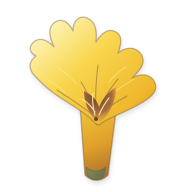
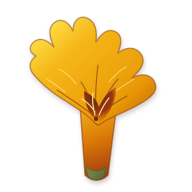
style(chips): unificar verde folhagem vivo nos chips e filtros selecionados

Changed region(s): [[0.1562, 0.0625, 0.8125, 0.9688]]

diff --git a/src/view/favorites/favorites.tsx b/src/view/favorites/favorites.tsx
@@ -89,8 +89,8 @@ export default function Favorites({
                 onPress={() => setStatusFilter(value)}
                 style={withPress([styles.mobileChip, selected && styles.mobileChipSelected])}
               >
-                {selected ? <AppIcon name="check" size={14} color={colors.m3.onSecondaryContainer} /> : null}
-                <Text style={[styles.mobileChipText, selected && { color: colors.m3.onSecondaryContainer }]}>{label}</Text>
+                {selected ? <AppIcon name="check" size={14} color={colors.nature.onFoliage} /> : null}
+                <Text style={[styles.mobileChipText, selected && { color: colors.nature.onFoliage, fontWeight: tokens.fontWeight.semiBold }]}>{label}</Text>
               </Pressable>
             );
           })}
@@ -115,8 +115,8 @@ export default function Favorites({
                   onPress={() => setStatusFilter(value)}
                   style={withPress([styles.wideChip, selected && styles.wideChipSelected])}
                 >
-                  {selected ? <AppIcon name="check" size={16} color={colors.m3.onSecondaryContainer} /> : null}
-                  <Text style={[styles.wideChipText, selected && { color: colors.m3.onSecondaryContainer }]}>{label}</Text>
+                  {selected ? <AppIcon name="check" size={16} color={colors.nature.onFoliage} /> : null}
+                  <Text style={[styles.wideChipText, selected && { color: colors.nature.onFoliage, fontWeight: tokens.fontWeight.semiBold }]}>{label}</Text>
                 </Pressable>
               );
             })}
@@ -275,8 +275,8 @@ function createStyles(colors: ColorPalette) {
       backgroundColor: colors.m3.surfaceContainerLowest,
     },
     wideChipSelected: {
-      backgroundColor: colors.m3.secondaryContainer,
-      borderColor: colors.m3.secondaryContainer,
+      backgroundColor: colors.nature.foliage,
+      borderColor: colors.nature.foliage,
       borderRadius: tokens.shapeMorph.chipSelected,
       borderWidth: 0,
       paddingLeft: tokens.spacing[8],
@@ -300,7 +300,7 @@ function createStyles(colors: ColorPalette) {
       borderColor: colors.m3.outlineVariant,
     },
     mobileChipSelected: {
-      backgroundColor: colors.m3.secondaryContainer,
+      backgroundColor: colors.nature.foliage,
       borderColor: "transparent",
     },
     mobileChipText: {

diff --git a/src/view/home.tsx b/src/view/home.tsx
@@ -62,6 +62,19 @@ export type HomeProps = {
 
 export { resetAppLaunchCelebrationForTesting };
 
+function getBookRecency(book: Book): number {
+  if (book.createdAt) {
+    const time = new Date(book.createdAt).getTime();
+    if (!Number.isNaN(time)) return time;
+  }
+  const match = book.id.match(/^book-(\d+)/);
+  if (match) {
+    const time = Number(match[1]);
+    if (!Number.isNaN(time)) return time;
+  }
+  return 0;
+}
+
 export default function Home({
   currentNeighborhood,
   onSelectNeighborhood,
@@ -181,8 +194,17 @@ export default function Home({
     return filteredBooks.filter((b) => b.neighborhood === effectiveNeighborhood);
   }, [filteredBooks, isSpecificNeighborhood, effectiveNeighborhood]);
 
-  const maxRecent = wideWeb ? 12 : CAROUSEL_MAX_ITEMS;
-  const recentBooks = neighborhoodBooks.slice(0, maxRecent);
+  const sortedNeighborhoodBooks = useMemo(() => {
+    return [...neighborhoodBooks].sort((a, b) => {
+      const recencyA = getBookRecency(a);
+      const recencyB = getBookRecency(b);
+      if (recencyA !== recencyB) return recencyB - recencyA;
+      return 0;
+    });
+  }, [neighborhoodBooks]);
+
+  const maxRecent = CAROUSEL_MAX_ITEMS;
+  const recentBooks = sortedNeighborhoodBooks.slice(0, maxRecent);
   const donationCount = state.books.filter(
     (book) => book.modality === "donation" && book.status === "available",
   ).length;
@@ -506,7 +528,7 @@ export default function Home({
             }
           }}
           viewMoreLabel="Ver mais livros recém-adicionados"
-          viewMoreButtonText="Ver todos"
+          viewMoreButtonText="Ver mais"
         />
       ) : (
         <HomeEmptyCatalogSection

diff --git a/src/view/components/Chip.tsx b/src/view/components/Chip.tsx
@@ -44,7 +44,7 @@ export function Chip({ label, selected, onPress, disabled = false, accessibility
           disabled && styles.disabled,
         ]}
       >
-        {selected ? <AppIcon name="check" size={18} color={tone?.text ?? colors.m3.onSecondaryContainer} /> : null}
+        {selected ? <AppIcon name="check" size={18} color={tone?.text ?? colors.nature.onFoliage} /> : null}
         {tone && !selected ? <View style={[styles.dot, { backgroundColor: tone.background, borderColor: tone.background }]} /> : null}
         <Text
           style={[
@@ -76,7 +76,7 @@ function createStyles(colors: ColorPalette) {
     chipCompact: { height: tokens.spacing[32], paddingHorizontal: tokens.spacing[16] },
     chipRegular: { height: tokens.spacing[40], paddingHorizontal: tokens.spacing[20] },
     selected: {
-      backgroundColor: colors.m3.secondaryContainer,
+      backgroundColor: colors.nature.foliage,
       borderWidth: 0,
       borderRadius: tokens.shapeMorph.chipSelected,
     },
@@ -91,7 +91,7 @@ function createStyles(colors: ColorPalette) {
       ...(Platform.OS === "web" ? ({ cursor: "not-allowed" } as never) : {}),
     },
     label: { color: colors.m3.onSurfaceVariant, ...tokens.typography.labelLarge },
-    labelSelected: { color: colors.m3.onSecondaryContainer },
+    labelSelected: { color: colors.nature.onFoliage, fontWeight: tokens.fontWeight.medium },
     labelDisabled: { color: colors.disabledText },
   });
 }

diff --git a/src/view/search/WebFilterSidebar.tsx b/src/view/search/WebFilterSidebar.tsx
@@ -127,7 +127,7 @@ export function WebFilterSidebar({
                   onPress={() => onSortChange(opt)}
                   style={withPress([styles.chip, selected && styles.chipSelected])}
                 >
-                  {selected ? <AppIcon name="check" size={16} color={colors.m3.onSecondaryContainer} /> : null}
+                  {selected ? <AppIcon name="check" size={16} color={colors.nature.onFoliage} /> : null}
                   <Text style={[styles.chipText, selected && styles.chipTextSelected]}>{SORT_LABELS[opt]}</Text>
                 </Pressable>
               );
@@ -192,14 +192,14 @@ function createStyles(colors: ColorPalette) {
       backgroundColor: colors.m3.surfaceContainerLowest,
     },
     chipSelected: {
-      backgroundColor: colors.m3.secondaryContainer,
-      borderColor: colors.m3.secondaryContainer,
+      backgroundColor: colors.nature.foliage,
+      borderColor: colors.nature.foliage,
       borderRadius: tokens.shapeMorph.chipSelected,
       borderWidth: 0,
       paddingLeft: tokens.spacing[8],
     },
     chipText: { ...tokens.typography.labelLarge, color: colors.m3.onSurfaceVariant },
-    chipTextSelected: { color: colors.m3.onSecondaryContainer },
+    chipTextSelected: { color: colors.nature.onFoliage, fontWeight: tokens.fontWeight.semiBold },
     checkRow: { flexDirection: "row", alignItems: "center", gap: tokens.spacing[12], minHeight: 40 },
     box: {
       width: 18,

diff --git a/src/view/requests/requestListLayout.tsx b/src/view/requests/requestListLayout.tsx
@@ -170,7 +170,7 @@ export function RequestListLayout({
                       selected && styles.filterChipSelected,
                     ])}
                   >
-                    {selected ? <AppIcon name="check" size={16} color={colors.m3.onSecondaryContainer} /> : null}
+                    {selected ? <AppIcon name="check" size={16} color={colors.nature.onFoliage} /> : null}
                     <Text style={[styles.filterChipText, selected && styles.filterChipTextSelected]}>
                       {chip.label}
                     </Text>
@@ -504,8 +504,8 @@ function createStyles(colors: ColorPalette) {
     borderColor: colors.m3.outlineVariant,
   },
   filterChipSelected: {
-    backgroundColor: colors.m3.secondaryContainer,
-    borderColor: colors.m3.secondaryContainer,
+    backgroundColor: colors.nature.foliage,
+    borderColor: colors.nature.foliage,
     borderRadius: tokens.shapeMorph.chipSelected,
     borderWidth: 0,
     paddingLeft: tokens.spacing[10],
@@ -520,7 +520,8 @@ function createStyles(colors: ColorPalette) {
     fontWeight: tokens.fontWeight.medium,
   },
   filterChipTextSelected: {
-    color: colors.m3.onSecondaryContainer,
+    color: colors.nature.onFoliage,
+    fontWeight: tokens.fontWeight.semiBold,
   },
   heroTitle: {
     ...tokens.typography.titleMedium,

diff --git a/src/infra/datasources/supabaseBookDataSource.ts b/src/infra/datasources/supabaseBookDataSource.ts
@@ -27,10 +27,11 @@ type BookRow = {
   draft_step?: number | null;
   is_box?: boolean | null;
   box_volumes_count?: number | null;
+  created_at?: string | null;
 };
 
 export const BOOK_COLUMNS =
-  "id,title,author,category,owner_id,modality,price,status,city,state,neighborhood,condition,description,synopsis,publisher,page_count,publication_year,photo_url,photos,draft_step,is_box,box_volumes_count";
+  "id,title,author,category,owner_id,modality,price,status,city,state,neighborhood,condition,description,synopsis,publisher,page_count,publication_year,photo_url,photos,draft_step,is_box,box_volumes_count,created_at";
 
 function mapBook(row: BookRow): Book {
   return {
@@ -56,6 +57,7 @@ function mapBook(row: BookRow): Book {
     ...(row.draft_step === null || row.draft_step === undefined ? {} : { draftStep: Number(row.draft_step) }),
     ...(row.is_box ? { isBox: true } : {}),
     ...(row.box_volumes_count ? { boxVolumesCount: Number(row.box_volumes_count) } : {}),
+    ...(row.created_at ? { createdAt: row.created_at } : {}),
   };
 }
 

diff --git a/src/view/search/search.tsx b/src/view/search/search.tsx
@@ -263,7 +263,7 @@ export default function Search({
               style={withPress(styles.activeFilterChip)}
             >
               <Text style={styles.activeFilterText}>{filter.label}</Text>
-              <AppIcon name="close" size={16} color={colors.m3.onSecondaryContainer} />
+              <AppIcon name="close" size={16} color={colors.nature.onFoliage} />
             </Pressable>
           ))}
         </View>
@@ -686,9 +686,9 @@ function createStyles(colors: ColorPalette) {
       height: tokens.spacing[32],
       paddingHorizontal: tokens.spacing[12],
       borderRadius: tokens.shapeMorph.chipSelected,
-      backgroundColor: colors.m3.secondaryContainer,
+      backgroundColor: colors.nature.foliage,
     },
-    activeFilterText: { ...tokens.typography.labelLarge, color: colors.m3.onSecondaryContainer },
+    activeFilterText: { ...tokens.typography.labelLarge, color: colors.nature.onFoliage, fontWeight: tokens.fontWeight.semiBold },
     summaryRow: {
       flexDirection: "row",
       alignItems: "center",

diff --git a/src/view/home/CatalogCarousel.tsx b/src/view/home/CatalogCarousel.tsx
@@ -29,7 +29,7 @@ function createModalityTag(colors: ColorPalette): Record<BookModality, { backgro
 const CAROUSEL_ITEM_WIDTH = 168;
 const CAROUSEL_ITEM_GAP = tokens.spacing[12];
 const CAROUSEL_ITEM_STRIDE = CAROUSEL_ITEM_WIDTH + CAROUSEL_ITEM_GAP;
-export const CAROUSEL_MAX_ITEMS = 8;
+export const CAROUSEL_MAX_ITEMS = 4;
 
 export function carouselOffsetFor(index: number): number {
   return index * CAROUSEL_ITEM_STRIDE;
@@ -57,7 +57,7 @@ export function CatalogCarousel({
   onNavigateToBookDetail,
   onViewMore,
   viewMoreLabel,
-  viewMoreButtonText = "Ver todos",
+  viewMoreButtonText = "Ver mais",
 }: CatalogCarouselProps) {
   const [index, setIndex] = useState(0);
   const listRef = useRef<FlatList<Book> | null>(null);

diff --git a/src/view/notifications/notifications.tsx b/src/view/notifications/notifications.tsx
@@ -544,8 +544,8 @@ function createStyles(colors: ColorPalette) {
       borderColor: colors.m3.outlineVariant,
     },
     filterChipActive: {
-      backgroundColor: colors.m3.secondaryContainer,
-      borderColor: colors.m3.secondaryContainer,
+      backgroundColor: colors.nature.foliage,
+      borderColor: colors.nature.foliage,
       borderRadius: tokens.radius.full,
       borderWidth: 0,
     },
@@ -554,7 +554,7 @@ function createStyles(colors: ColorPalette) {
       color: colors.m3.onSurfaceVariant,
     },
     filterChipTextActive: {
-      color: colors.m3.onSecondaryContainer,
+      color: colors.nature.onFoliage,
       fontWeight: tokens.fontWeight.semiBold,
     },
     actionButtonsRow: {

diff --git a/src/view/help/helpAndFaq.tsx b/src/view/help/helpAndFaq.tsx
@@ -195,8 +195,8 @@ function createStyles(colors: ColorPalette) {
     justifyContent: "center",
   },
   filterChipSelected: {
-    backgroundColor: colors.m3.secondaryContainer,
-    borderColor: colors.m3.secondaryContainer,
+    backgroundColor: colors.nature.foliage,
+    borderColor: colors.nature.foliage,
     borderRadius: tokens.shapeMorph.chipSelected,
     borderWidth: 0,
   },
@@ -205,7 +205,8 @@ function createStyles(colors: ColorPalette) {
     color: colors.m3.onSurfaceVariant,
   },
   filterTextSelected: {
-    color: colors.m3.onSecondaryContainer,
+    color: colors.nature.onFoliage,
+    fontWeight: tokens.fontWeight.semiBold,
   },
   list: {
     gap: tokens.spacing[12],

diff --git a/src/view/components/IpePetalsCelebration.tsx b/src/view/components/IpePetalsCelebration.tsx
@@ -178,7 +178,7 @@ export function IpePetalsCelebration({
         tiltY: (variation(index, 13) - 0.5) * tiltRange,
         spinDirection: variation(index, 9) > 0.5 ? 1 : -1,
         depthScale: layer === "foreground" ? 1.08 : layer === "midground" ? 0.94 : 0.78,
-        opacity: layer === "foreground" ? 1 : layer === "midground" ? 0.96 : 0.88,
+        opacity: layer === "foreground" ? 1 : layer === "midground" ? 0.98 : 0.95,
         imageType,
         layer,
         restingPlace,

diff --git a/src/infra/datasources/memoryBookDataSource.ts b/src/infra/datasources/memoryBookDataSource.ts
@@ -43,6 +43,7 @@ export class MemoryBookDataSource implements IBookDataSource {
     const created: Book = {
       ...book,
       id: `book-${Date.now()}-${Math.random().toString(36).slice(2, 9)}`,
+      createdAt: (book as Book).createdAt ?? new Date().toISOString(),
     };
     this.books.push({ ...created });
     return { ...created };
